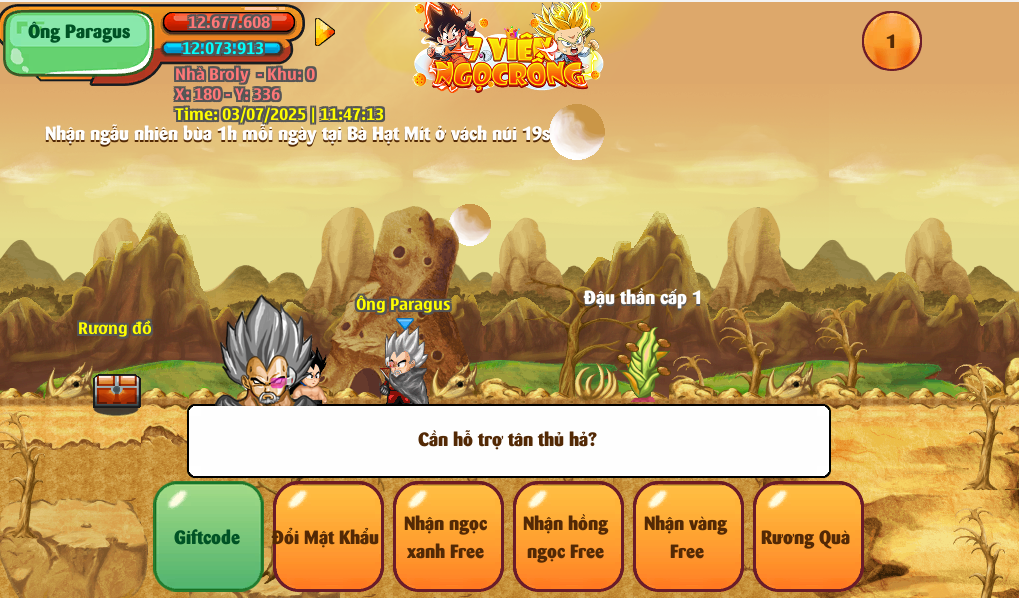
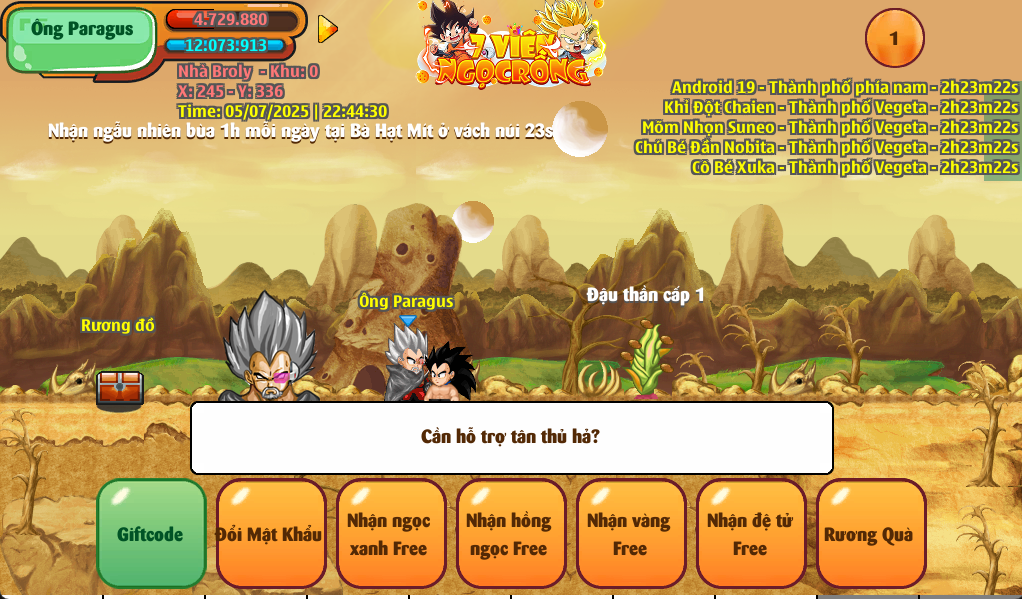
sửa money

diff --git a/src/app/(children)/giftCode/page.js b/src/app/(children)/giftCode/page.js
@@ -51,21 +51,22 @@ export default function GiftCodePage() {
                   <td className="text-white">{index + 1}</td>
                   <td className="text-white">{gift.code}</td>
                   <td className="text-white">
-                    {gift?.detail?.length > 0 ? (
+                    {/* {gift?.detail?.length > 0 ? (
                       <>
                         <div>
-                          {gift.detail.map((item) => (
-                            <div key={item.id} className="mb-1">
-                              <Image src={`api/icon?id=${item.icon}`} alt={item.icon} width={55} className="me-2 " />
-                              {item.name} (x{item.quantity})
-                            </div>
-                          ))}
+                          {gift?.detail &&
+                            gift?.detail?.map((item) => (
+                              <div key={item.id} className="mb-1">
+                                <Image src={`api/icon?id=${item.icon}`} alt={item.icon} width={55} className="me-2 " />
+                                {item.name} (x{item.quantity})
+                              </div>
+                            ))}
                         </div>
                         <br />
                       </>
                     ) : (
                       "Không có vật phẩm"
-                    )}
+                    )} */}
                   </td>
                   <td className="text-white">{formatTime(gift.expired)}</td>
                 </tr>

diff --git a/src/app/api/payment/atm/route.js b/src/app/api/payment/atm/route.js
@@ -62,7 +62,7 @@ export async function POST(req) {
               console.log(`✅ Giao dịch ${transactionID} hợp lệ, tiến hành nạp tiền.`);
 
               // Cộng tiền vào tài khoản người dùng
-              await updateAccountMoney(userId, amount, true, true);
+              await updateAccountMoney(userId, amount, false, true);
 
               // Lưu lịch sử giao dịch vào database
               await db.query("INSERT INTO napatm (transaction_id, user_id, amount, transaction_date) VALUES (?, ?, ?, ?)", [transactionID, userId, amount, transactionDate]);

diff --git a/src/Services/accountService.js b/src/Services/accountService.js
@@ -37,7 +37,7 @@ export async function updateAccountMoney(accountId, value, isActive, isTopUp) {
     const totalMoney = value * (parseFloat(process.env.PROMO_RATE) || 1);
 
     // Xây dựng câu lệnh SQL động dựa trên isActive và isTopUp
-    const updateFields = [`money = money + ?`];
+    const updateFields = [`vnd = vnd + ?`];
 
     if (isTopUp) {
       updateFields.push(`tongnap = tongnap + ?`, `naptuan = naptuan + ?`);
